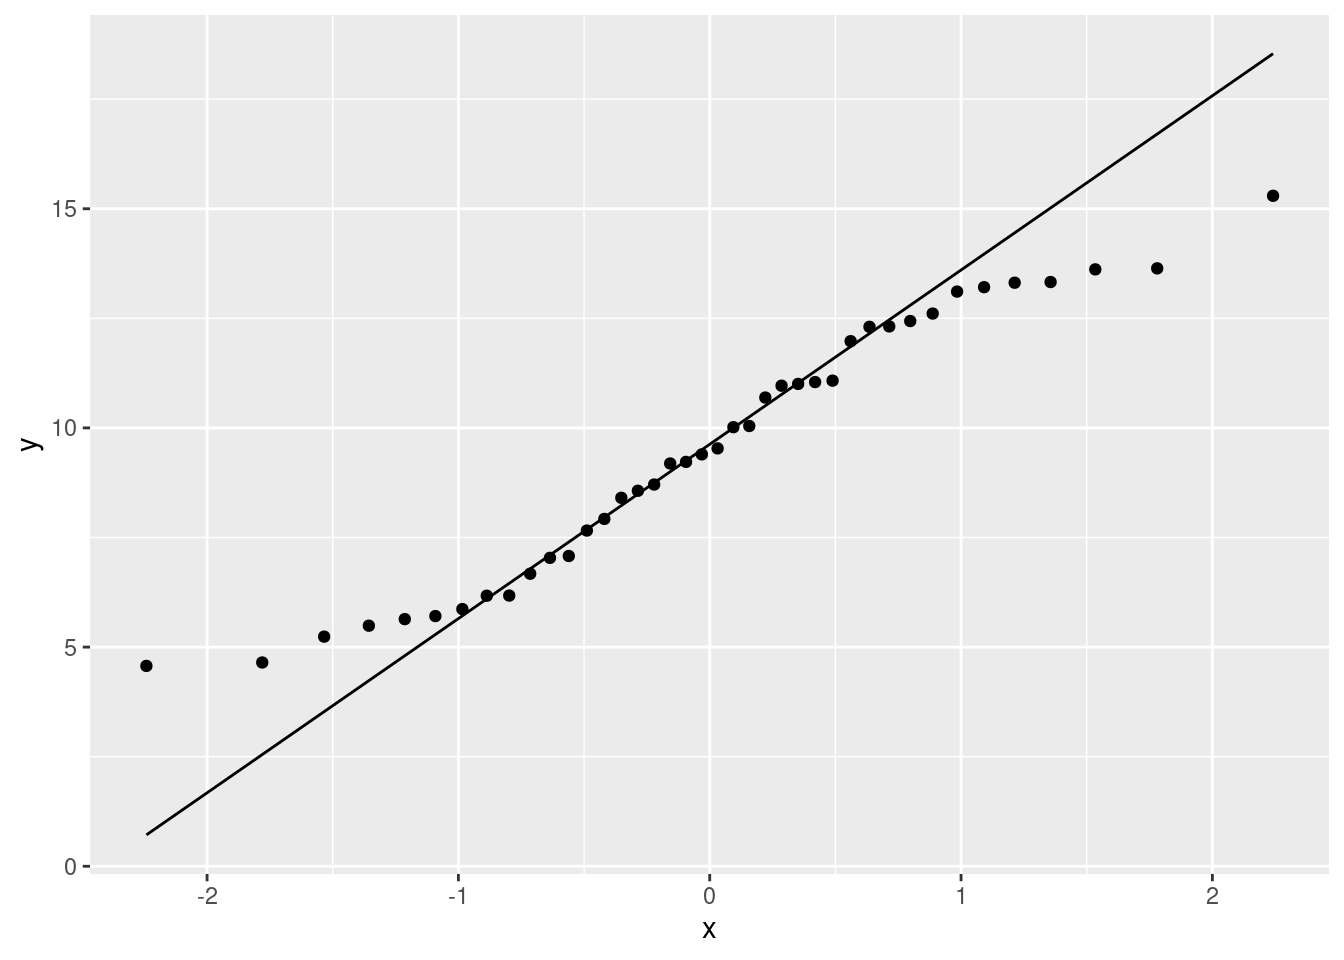
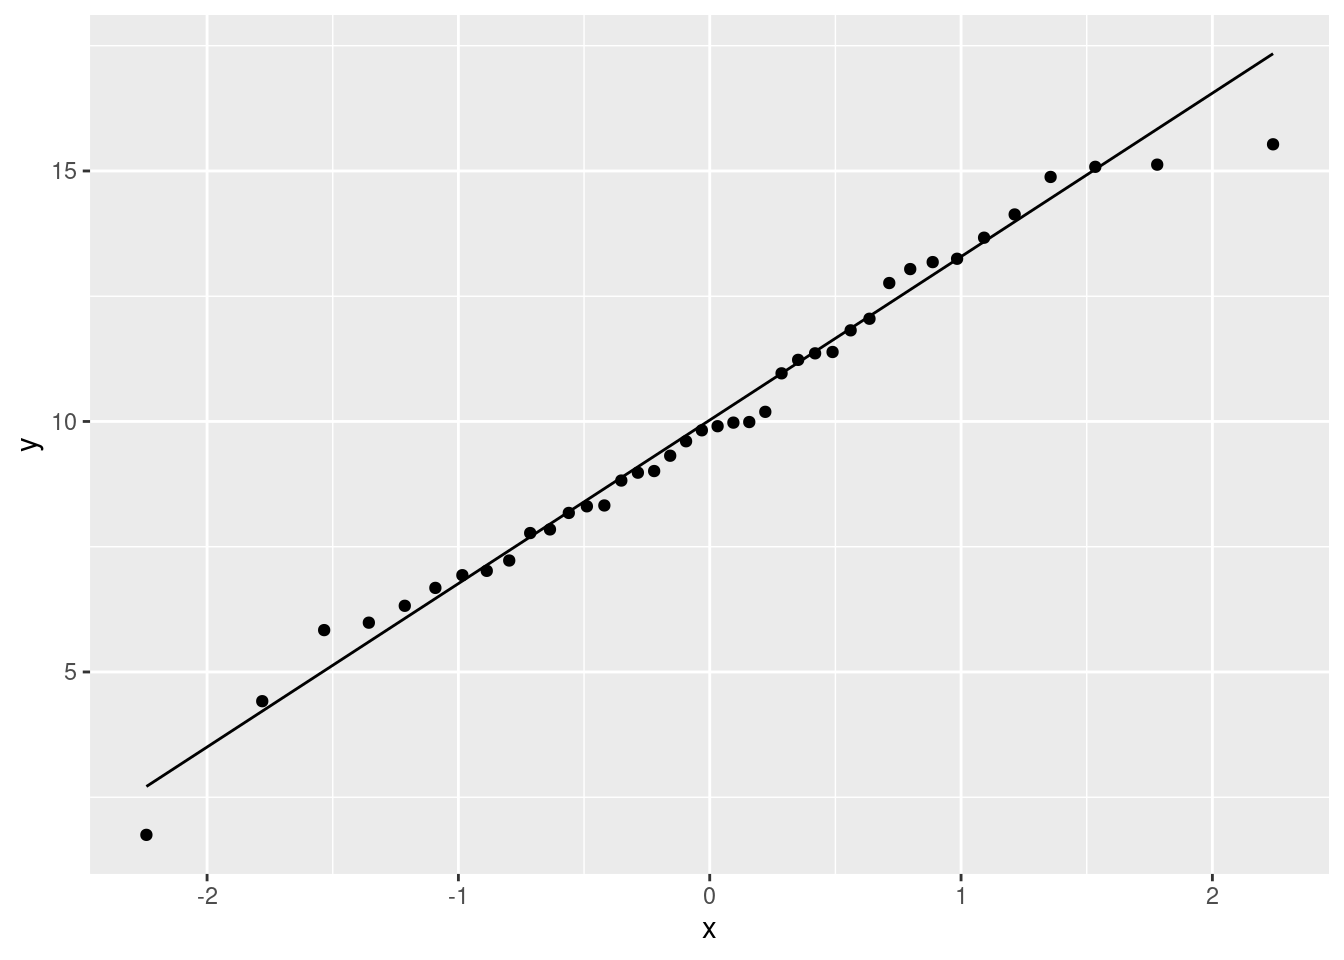
Built site for gh-pages

diff --git a/index.html b/index.html
@@ -128,6 +128,7 @@ ul.task-list li input[type="checkbox"] {
 <p><img src="index_files/figure-html/unnamed-chunk-1-1.png" class="img-fluid" width="672"></p>
 </div>
 </div>
+<p>These actually <em>are</em> normal, so any deviations from the line are just chance.</p>
 
 
 
